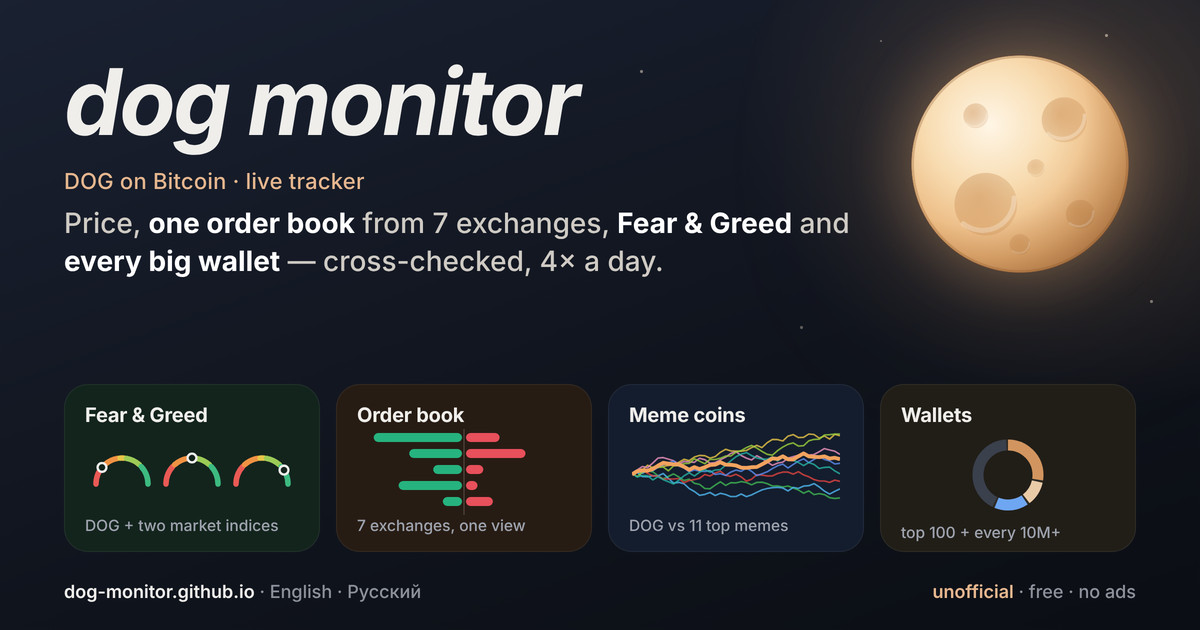
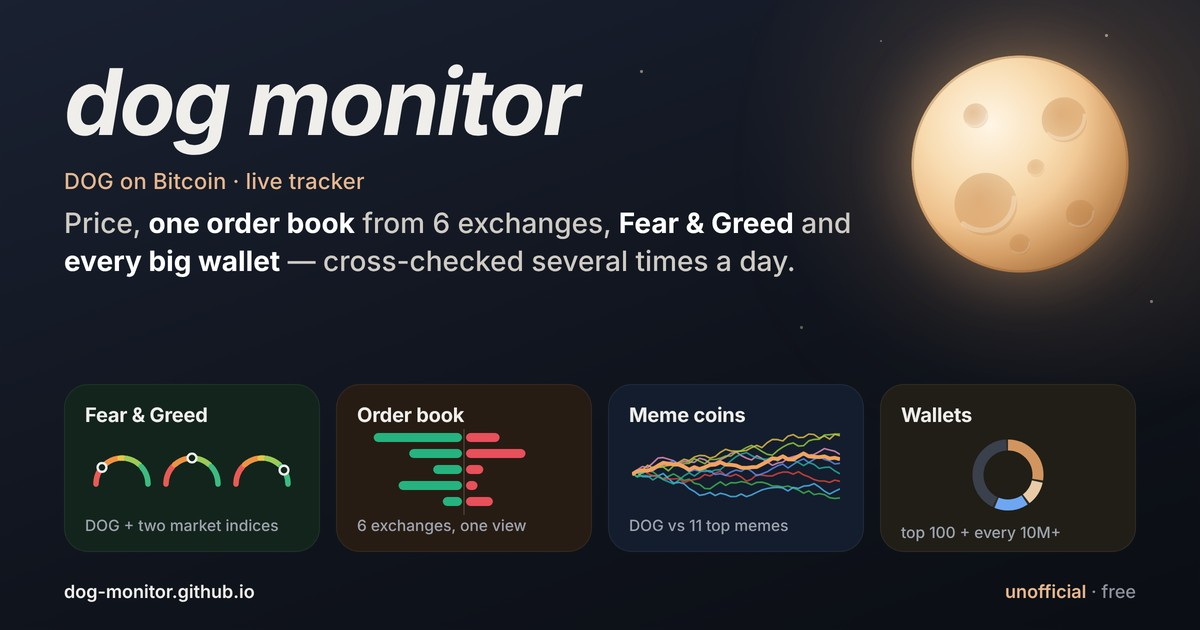
Обложка ссылки: 6 бирж, «несколько раз в день», только английский
Claude-Session: https://claude.ai/code/session_01BfrMzxS7Kt9iLhApuokDgE

diff --git a/README.md b/README.md
@@ -8,7 +8,7 @@
 - DOG against the top meme coins.
 - The top 100 and every 10M+ DOG wallet, average cost, coins in profit and loss, C2 Blockchain holdings.
 
-Works in any browser and installs on a phone or tablet like an app. English, plain words, no ads, no cookies; visits are
+Works in any browser and installs on a phone or tablet like an app. English, plain words, no cookies; visits are
 counted anonymously.
 
 ## How it works
